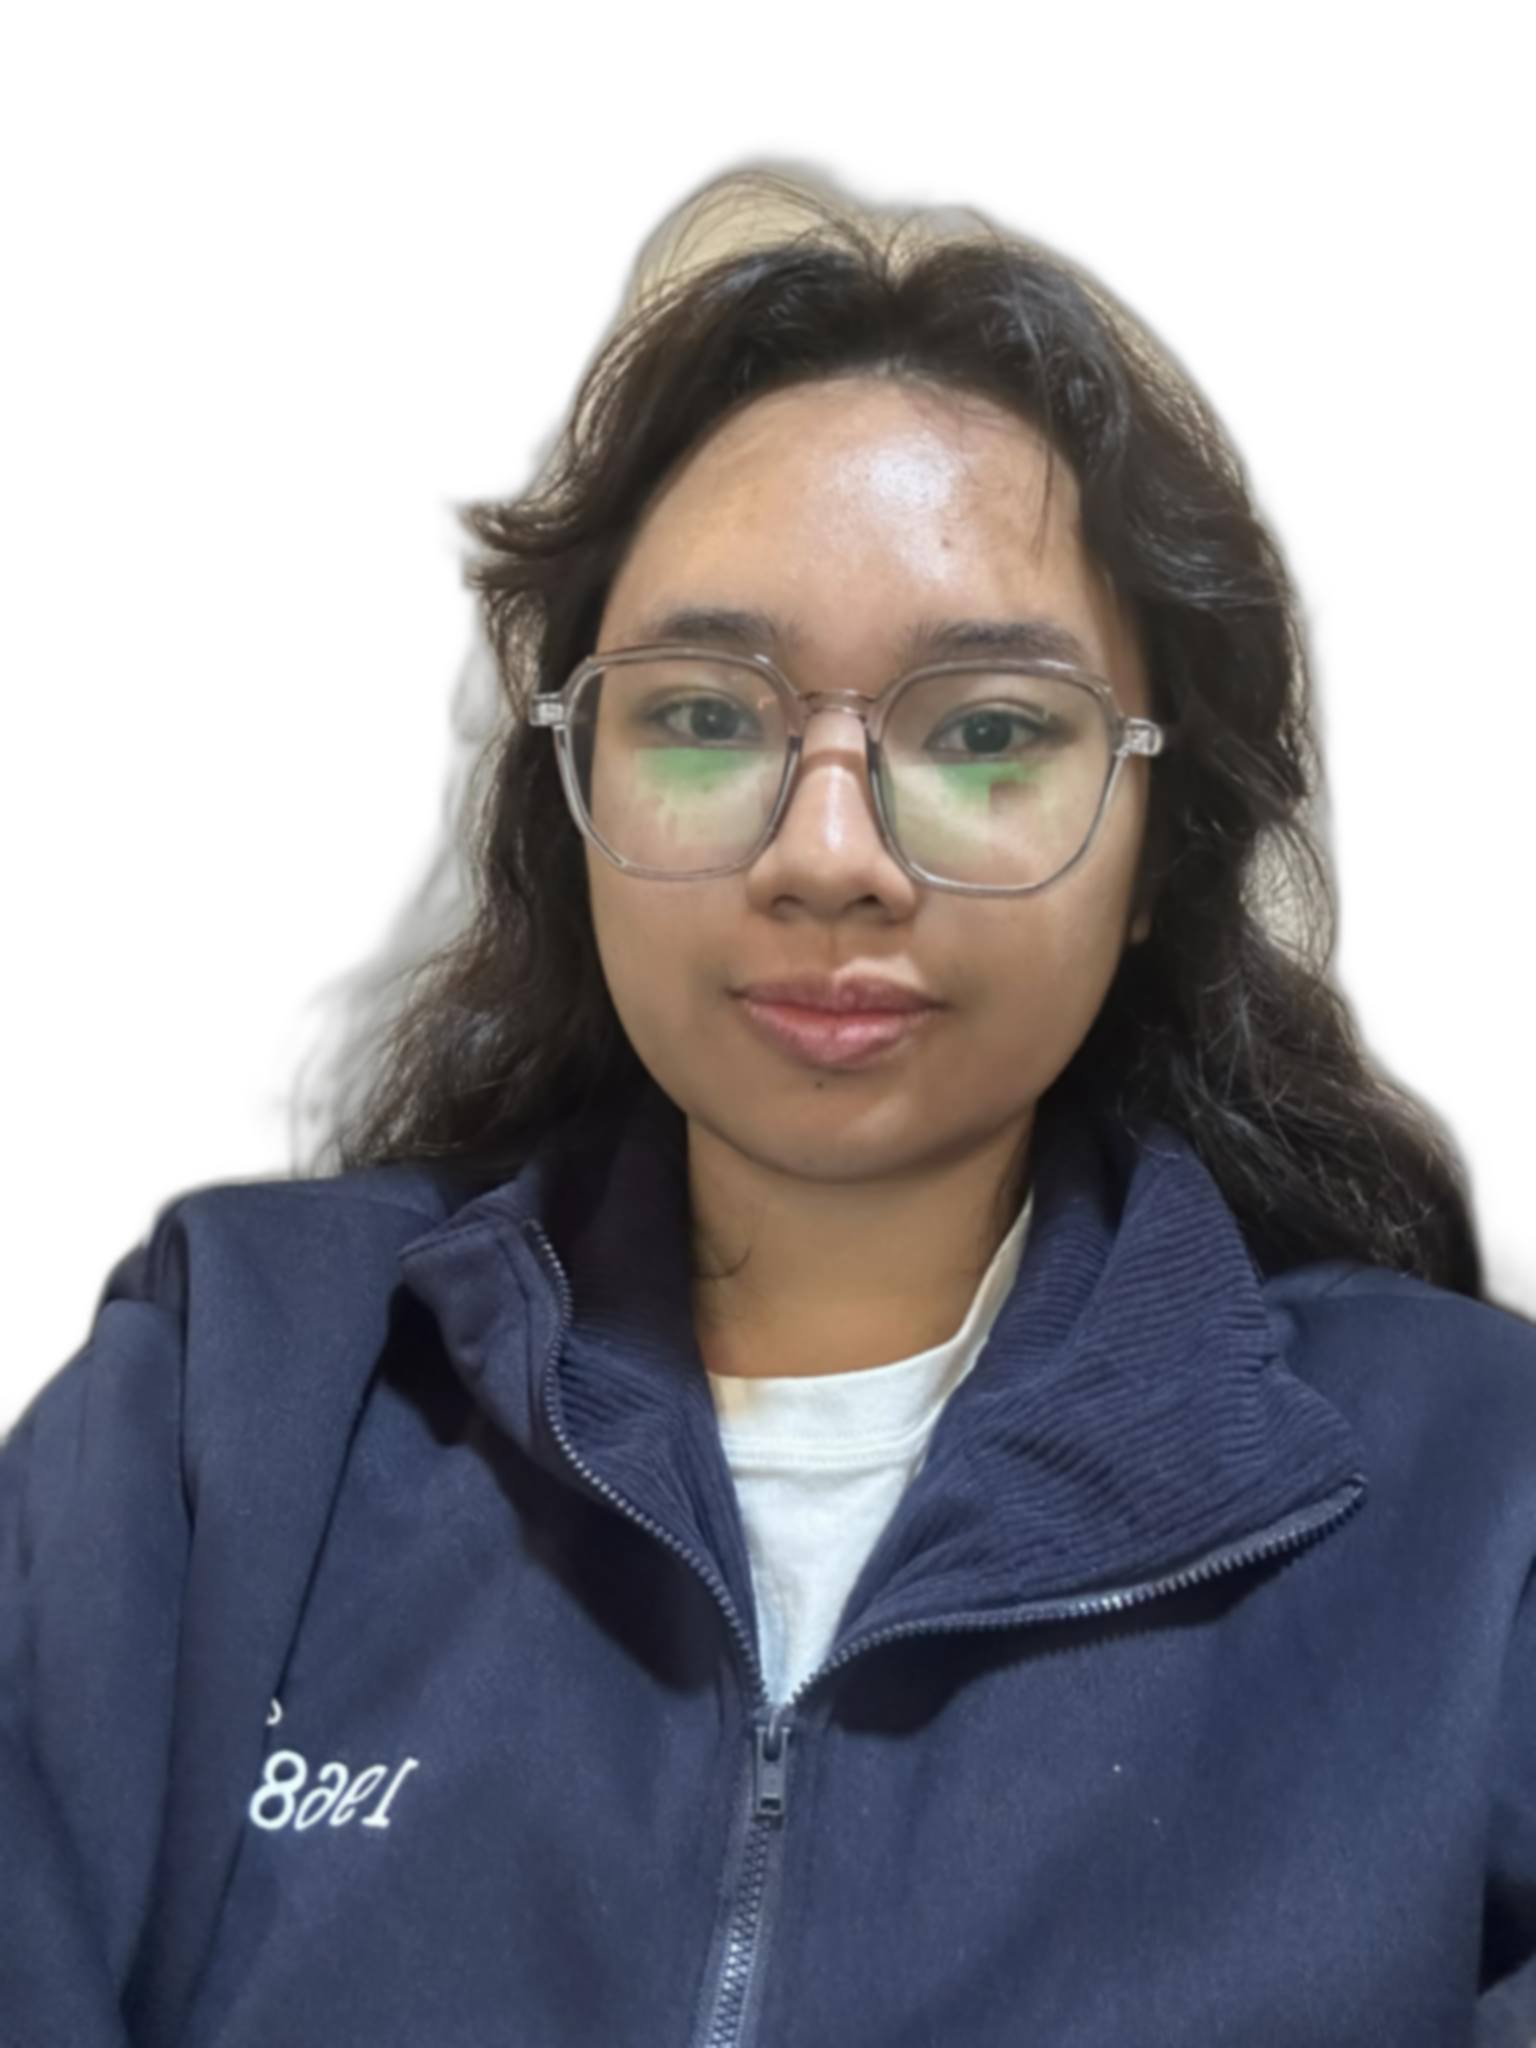
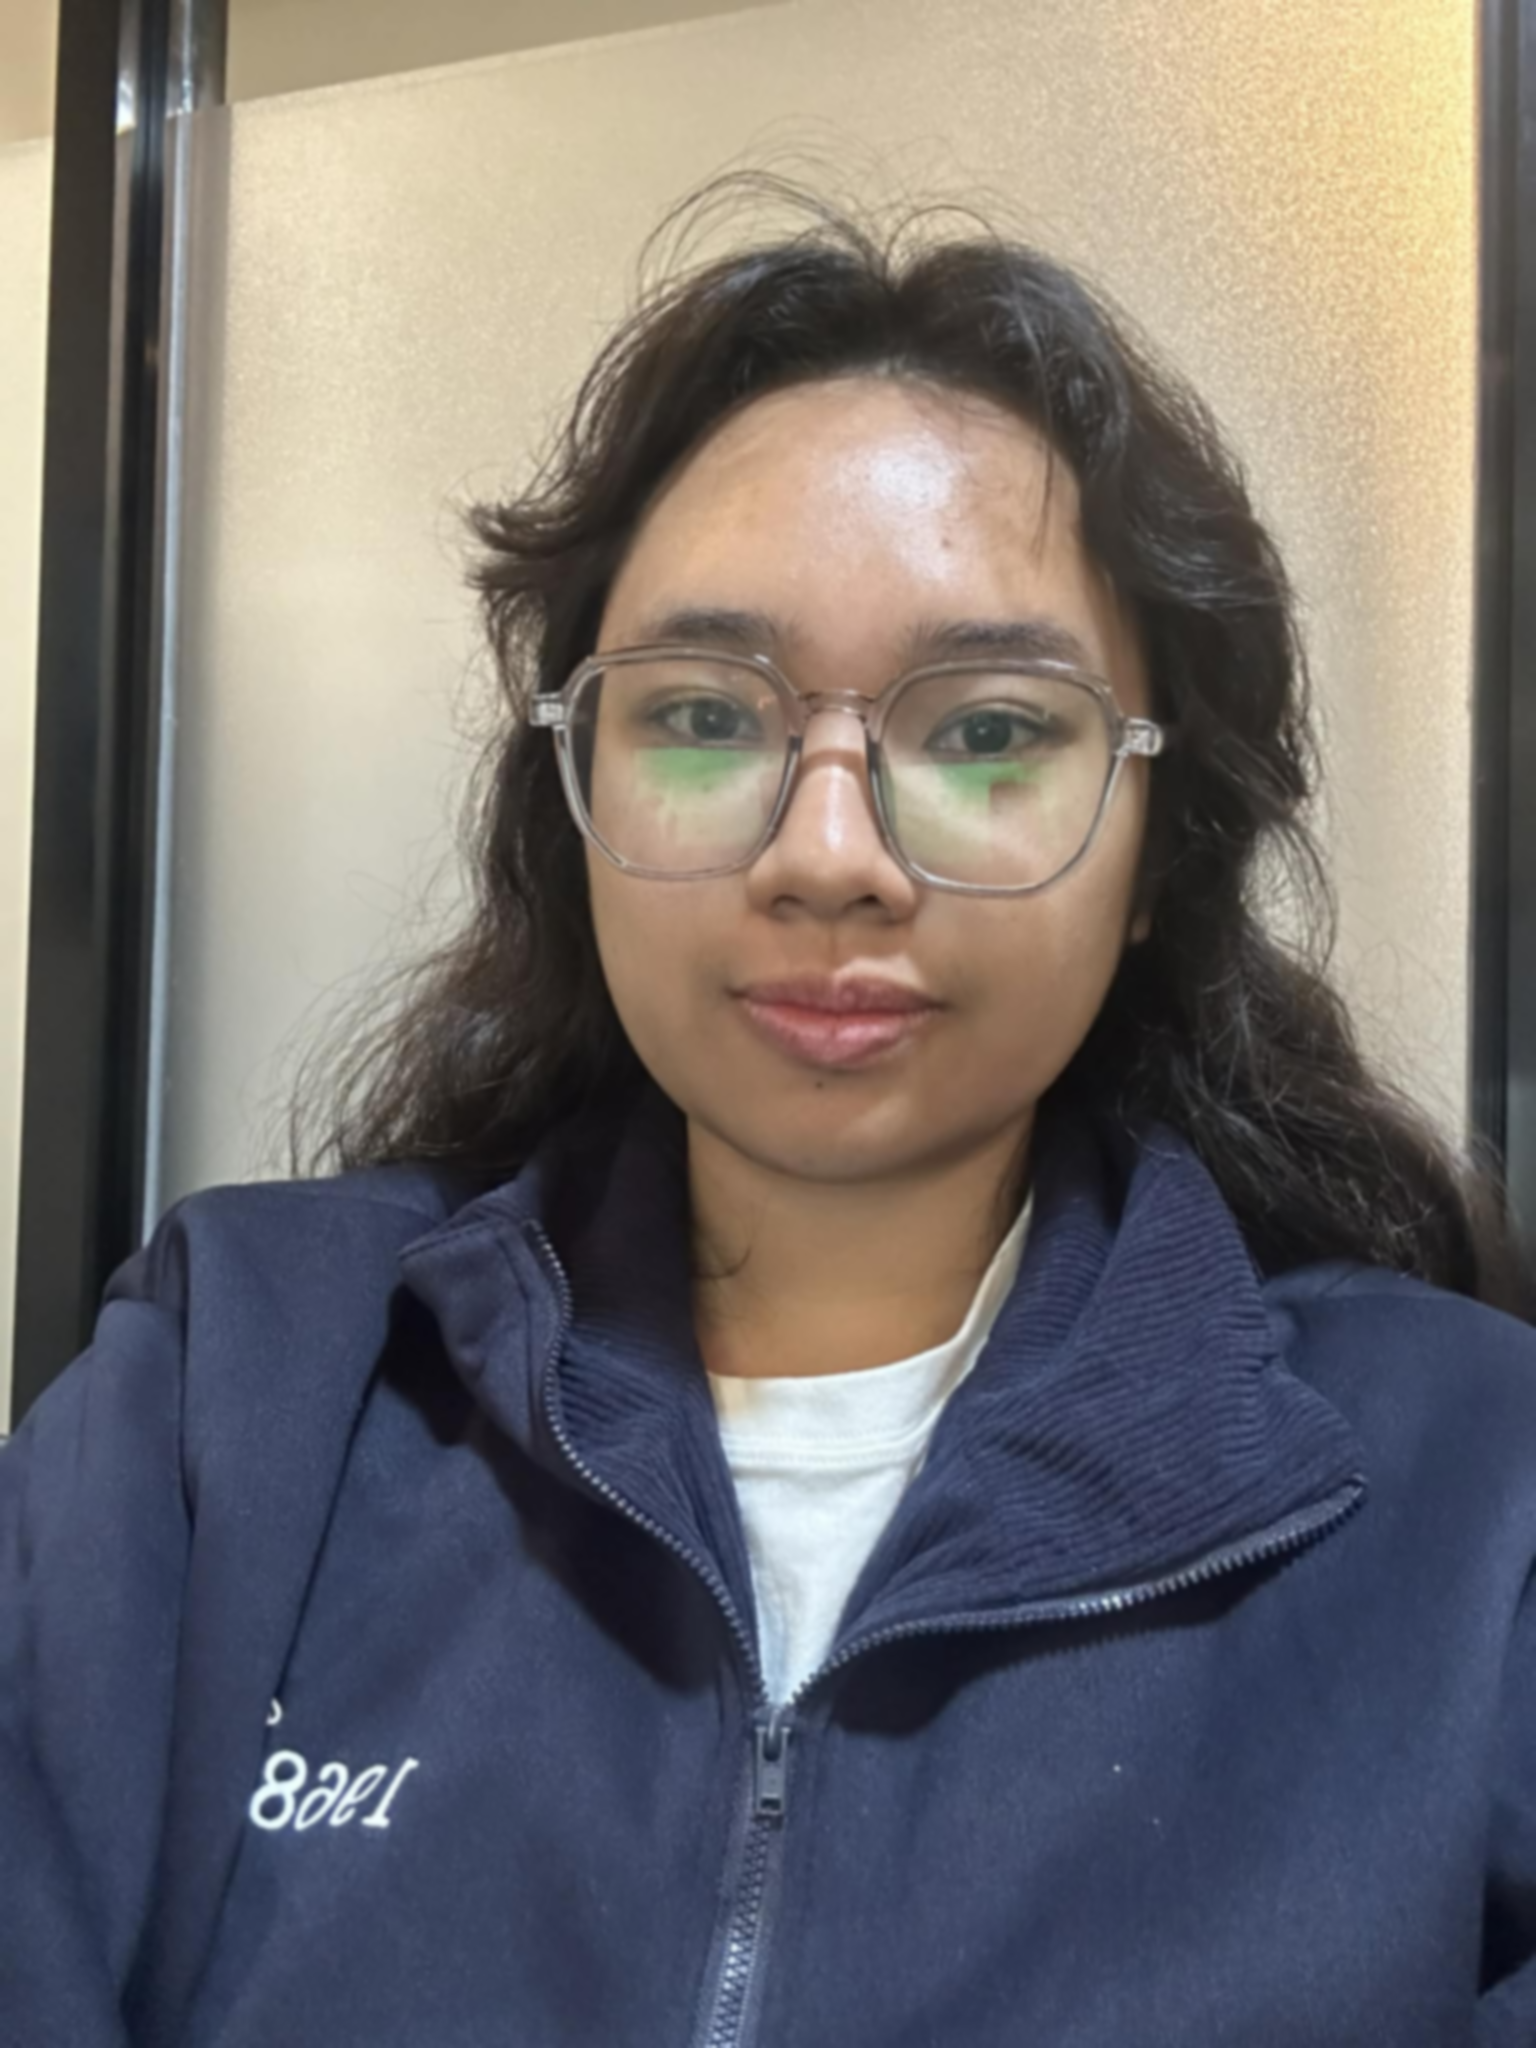
Revert "I removed the photo background using a library"
This reverts commit a882f6e895cfb4059fc4950ee48f0b9064609b0f.

diff --git a/src/main.py b/src/main.py
@@ -2,7 +2,6 @@ import os
 import sys
 import cv2
 
-from filter_01_bg_removal import apply as bg_remove
 from filter_02_gaussian_blur import apply as blur
 from filter_03_grayscale import apply as to_gray
 
@@ -22,13 +21,8 @@ def main():
 
     os.makedirs("output", exist_ok=True)
 
-    # FILTER 1: Background Removal
-    subject, fg_mask = bg_remove(image)
-    cv2.imwrite("output/01_subject_on_white.png", subject)
-    cv2.imwrite("output/01_fg_mask.png", fg_mask)
-
     # FILTER 2: Gaussian Blur (noise reduction)
-    blurred = blur(subject, ksize=11)
+    blurred = blur(image, ksize=11)
     cv2.imwrite("output/02_gaussian_blur.png", blurred)
 
     # FILTER 3: Grayscale conversion
